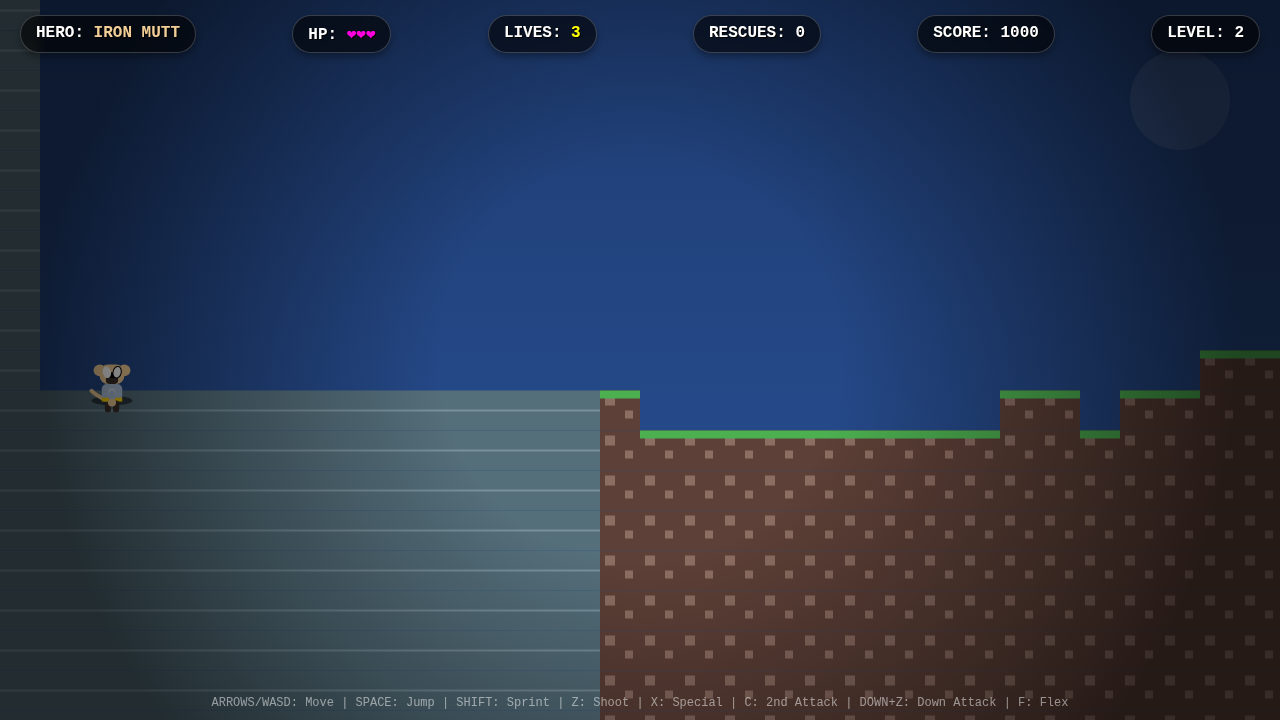
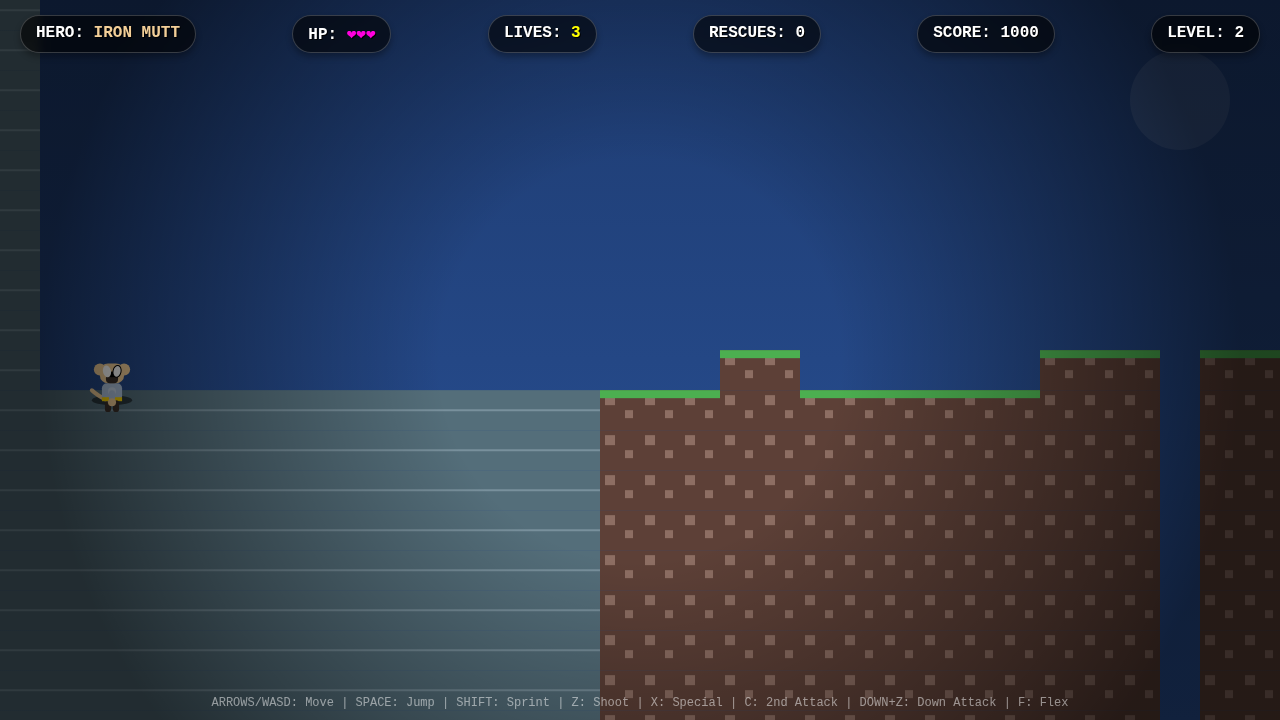
Implement Rescue Swap mechanics and Landmines.
- Update `Player.js` with `rescueSwap()`: Rescuing a hostage now grants a life, full health, and swaps the character to a random unlocked hero, mimicking Broforce.
- Update `TrappedBeast` in `items.js` to trigger `rescueSwap()`.
- Add `Landmine` class in `items.js`: A new hazard that explodes on contact.
- Update `level.js` to spawn Landmines on the surface and in tunnels.

Changed region(s): [[0.5, 0.4889, 0.7812, 0.6111], [0.8125, 0.4889, 0.9375, 1.0]]

diff --git a/loajf.html b/loajf.html
@@ -700,6 +700,71 @@ class PropaneTank {
     }
 }
 
+class Landmine {
+    constructor(x, y) {
+        this.x = x; this.y = y; this.w = 20; this.h = 5;
+        this.hp = 1;
+        this.active = true;
+        this.timer = 0;
+    }
+    update() {
+        if (!this.active) return;
+        this.timer++;
+
+        // Gravity
+        this.y += 5;
+        let r = Math.floor((this.y + this.h) / TILE_SIZE);
+        let c = Math.floor((this.x + this.w / 2) / TILE_SIZE);
+        if (r >= 0 && r < LEVEL_HEIGHT && c >= 0 && c < LEVEL_WIDTH && tiles[r] && tiles[r][c] && tiles[r][c].solid) {
+             this.y = r * TILE_SIZE - this.h;
+        }
+
+        // Player Collision
+        if (checkRectOverlap(this, player)) {
+            this.explode();
+        }
+
+        // Enemy Collision (Friendly Fire!)
+        // Optimization: Check rarely
+        if (this.timer % 10 === 0) {
+            for(let e of entities) {
+                if (e !== this && e.hp > 0 && (e instanceof Enemy || e instanceof ShieldBearer || e instanceof HeavyGunner)) {
+                    if (checkRectOverlap(this, e)) this.explode();
+                }
+            }
+        }
+    }
+    takeDamage(amt) {
+        this.explode();
+    }
+    explode() {
+        if (!this.active) return;
+        this.active = false;
+        spawnExplosion(this.x + 10, this.y, "orange", 3);
+        // Damage handled by explosion radius usually, but let's ensure player takes hit
+        if (Math.abs(player.x - this.x) < 60 && Math.abs(player.y - this.y) < 60) {
+            player.takeDamage(1);
+        }
+        // Destroy terrain
+        let c = Math.floor(this.x / TILE_SIZE);
+        let r = Math.floor(this.y / TILE_SIZE);
+        destroyRadius(c, r, 1);
+
+        this.x = -9999;
+    }
+    draw(ctx, camX, camY) {
+        let cx = this.x - camX;
+        let cy = this.y - camY;
+        ctx.fillStyle = "#333";
+        ctx.beginPath(); ctx.arc(cx+10, cy+5, 8, 0, Math.PI, true); ctx.fill();
+        // Blinking light
+        if (Math.floor(Date.now() / 200) % 2 === 0) {
+            ctx.fillStyle = "red";
+            ctx.beginPath(); ctx.arc(cx+10, cy, 2, 0, Math.PI*2); ctx.fill();
+        }
+    }
+}
+
 class FallingBlock {
     constructor(x, y) {
         this.x = x; this.y = y; this.w = TILE_SIZE; this.h = TILE_SIZE;
@@ -890,8 +955,8 @@ class TrappedBeast {
     update() {
         if (!this.freed && checkRectOverlap(this, player)) {
             this.freed = true;
-            spawnExplosion(this.x, this.y, "green", 2);
-            // Give powerup?
+            // spawnExplosion(this.x, this.y, "green", 2); // Handled by player.rescueSwap
+            player.rescueSwap();
         }
     }
     draw(ctx, camX, camY) {
@@ -1621,6 +1686,31 @@ class Player {
         spawnExplosion(this.x, this.y, "#00ff41", 2);
     }
     
+    // --- RESCUE SWAP MECHANIC ---
+    rescueSwap() {
+        // Gain a life
+        gameState.lives++;
+        // Increment Score
+        gameState.score += 500;
+
+        // Swap to random hero (Simulating unlocking/tagging in)
+        let unlockedChars = CHARACTERS.slice(0, gameState.globalUnlocked);
+        let newCharIndex = Math.floor(secureRandom() * unlockedChars.length);
+
+        // Force swap even if same char? Yes, for full health + effect.
+        this.setCharacter(unlockedChars[newCharIndex].id);
+
+        // Full Health
+        this.health = 3;
+
+        // Visuals
+        spawnExplosion(this.x, this.y, "gold", 2);
+        spawnDamageNumber(this.x, this.y - 40, "RESCUE!", "#00ff41");
+        spawnDamageNumber(this.x, this.y - 60, "1 UP", "yellow");
+
+        updateUI();
+    }
+
     // --- WALL DETECTION ---
     checkWall(dir) {
         if (!tiles) return false;
@@ -2136,6 +2226,11 @@ function generateLevel() {
                             newEntities.push(new HeavyGunner((tx+2) * TILE_SIZE, (beastY + 1) * TILE_SIZE));
                         }
                     }
+
+                    // Underground Landmines
+                    if (secureRandom() < 0.02) {
+                        newEntities.push(new Landmine(tx * TILE_SIZE, (tunnelY+2) * TILE_SIZE + 20));
+                    }
                 }
             }
         }
@@ -2184,6 +2279,11 @@ function generateLevel() {
              if (difficulty >= 2) newEntities.push(new SniperEnemy(x * TILE_SIZE, (y-1) * TILE_SIZE));
         }
         if (secureRandom() < 0.02) newEntities.push(new FlyingEnemy(x * TILE_SIZE, (y-5) * TILE_SIZE));
+
+        // Surface Landmines (Harder difficulties or random hazard)
+        if (secureRandom() < 0.02 + (difficulty * 0.005)) {
+             newEntities.push(new Landmine(x * TILE_SIZE, (y-1) * TILE_SIZE + 35)); // +35 to put it on the floor
+        }
     }
 
     // 5. FINISH
@@ -2216,6 +2316,15 @@ function generateLevel() {
          // Boss Entourage
          spawnSquad(bossX - 5, bossY);
          spawnSquad(bossX + 5, bossY);
+
+         // Minefield around boss?
+         if (difficulty >= 10) {
+             for(let i=0; i<5; i++) {
+                 let mx = bossX + (secureRandom()-0.5)*20;
+                 let my = surfaceMap[Math.floor(mx)] || 10;
+                 newEntities.push(new Landmine(mx*TILE_SIZE, (my-1)*TILE_SIZE + 35));
+             }
+         }
 
     } else {
          // Level 20+: Special Room

diff --git a/src/js/classes/items.js b/src/js/classes/items.js
@@ -43,6 +43,71 @@ class PropaneTank {
     }
 }
 
+class Landmine {
+    constructor(x, y) {
+        this.x = x; this.y = y; this.w = 20; this.h = 5;
+        this.hp = 1;
+        this.active = true;
+        this.timer = 0;
+    }
+    update() {
+        if (!this.active) return;
+        this.timer++;
+
+        // Gravity
+        this.y += 5;
+        let r = Math.floor((this.y + this.h) / TILE_SIZE);
+        let c = Math.floor((this.x + this.w / 2) / TILE_SIZE);
+        if (r >= 0 && r < LEVEL_HEIGHT && c >= 0 && c < LEVEL_WIDTH && tiles[r] && tiles[r][c] && tiles[r][c].solid) {
+             this.y = r * TILE_SIZE - this.h;
+        }
+
+        // Player Collision
+        if (checkRectOverlap(this, player)) {
+            this.explode();
+        }
+
+        // Enemy Collision (Friendly Fire!)
+        // Optimization: Check rarely
+        if (this.timer % 10 === 0) {
+            for(let e of entities) {
+                if (e !== this && e.hp > 0 && (e instanceof Enemy || e instanceof ShieldBearer || e instanceof HeavyGunner)) {
+                    if (checkRectOverlap(this, e)) this.explode();
+                }
+            }
+        }
+    }
+    takeDamage(amt) {
+        this.explode();
+    }
+    explode() {
+        if (!this.active) return;
+        this.active = false;
+        spawnExplosion(this.x + 10, this.y, "orange", 3);
+        // Damage handled by explosion radius usually, but let's ensure player takes hit
+        if (Math.abs(player.x - this.x) < 60 && Math.abs(player.y - this.y) < 60) {
+            player.takeDamage(1);
+        }
+        // Destroy terrain
+        let c = Math.floor(this.x / TILE_SIZE);
+        let r = Math.floor(this.y / TILE_SIZE);
+        destroyRadius(c, r, 1);
+
+        this.x = -9999;
+    }
+    draw(ctx, camX, camY) {
+        let cx = this.x - camX;
+        let cy = this.y - camY;
+        ctx.fillStyle = "#333";
+        ctx.beginPath(); ctx.arc(cx+10, cy+5, 8, 0, Math.PI, true); ctx.fill();
+        // Blinking light
+        if (Math.floor(Date.now() / 200) % 2 === 0) {
+            ctx.fillStyle = "red";
+            ctx.beginPath(); ctx.arc(cx+10, cy, 2, 0, Math.PI*2); ctx.fill();
+        }
+    }
+}
+
 class FallingBlock {
     constructor(x, y) {
         this.x = x; this.y = y; this.w = TILE_SIZE; this.h = TILE_SIZE;
@@ -233,8 +298,8 @@ class TrappedBeast {
     update() {
         if (!this.freed && checkRectOverlap(this, player)) {
             this.freed = true;
-            spawnExplosion(this.x, this.y, "green", 2);
-            // Give powerup?
+            // spawnExplosion(this.x, this.y, "green", 2); // Handled by player.rescueSwap
+            player.rescueSwap();
         }
     }
     draw(ctx, camX, camY) {

diff --git a/src/js/level.js b/src/js/level.js
@@ -183,6 +183,11 @@ function generateLevel() {
                             newEntities.push(new HeavyGunner((tx+2) * TILE_SIZE, (beastY + 1) * TILE_SIZE));
                         }
                     }
+
+                    // Underground Landmines
+                    if (secureRandom() < 0.02) {
+                        newEntities.push(new Landmine(tx * TILE_SIZE, (tunnelY+2) * TILE_SIZE + 20));
+                    }
                 }
             }
         }
@@ -231,6 +236,11 @@ function generateLevel() {
              if (difficulty >= 2) newEntities.push(new SniperEnemy(x * TILE_SIZE, (y-1) * TILE_SIZE));
         }
         if (secureRandom() < 0.02) newEntities.push(new FlyingEnemy(x * TILE_SIZE, (y-5) * TILE_SIZE));
+
+        // Surface Landmines (Harder difficulties or random hazard)
+        if (secureRandom() < 0.02 + (difficulty * 0.005)) {
+             newEntities.push(new Landmine(x * TILE_SIZE, (y-1) * TILE_SIZE + 35)); // +35 to put it on the floor
+        }
     }
 
     // 5. FINISH
@@ -263,6 +273,15 @@ function generateLevel() {
          // Boss Entourage
          spawnSquad(bossX - 5, bossY);
          spawnSquad(bossX + 5, bossY);
+
+         // Minefield around boss?
+         if (difficulty >= 10) {
+             for(let i=0; i<5; i++) {
+                 let mx = bossX + (secureRandom()-0.5)*20;
+                 let my = surfaceMap[Math.floor(mx)] || 10;
+                 newEntities.push(new Landmine(mx*TILE_SIZE, (my-1)*TILE_SIZE + 35));
+             }
+         }
 
     } else {
          // Level 20+: Special Room

diff --git a/src/js/classes/player.js b/src/js/classes/player.js
@@ -28,6 +28,31 @@ class Player {
         spawnExplosion(this.x, this.y, "#00ff41", 2);
     }
 
+    // --- RESCUE SWAP MECHANIC ---
+    rescueSwap() {
+        // Gain a life
+        gameState.lives++;
+        // Increment Score
+        gameState.score += 500;
+
+        // Swap to random hero (Simulating unlocking/tagging in)
+        let unlockedChars = CHARACTERS.slice(0, gameState.globalUnlocked);
+        let newCharIndex = Math.floor(secureRandom() * unlockedChars.length);
+
+        // Force swap even if same char? Yes, for full health + effect.
+        this.setCharacter(unlockedChars[newCharIndex].id);
+
+        // Full Health
+        this.health = 3;
+
+        // Visuals
+        spawnExplosion(this.x, this.y, "gold", 2);
+        spawnDamageNumber(this.x, this.y - 40, "RESCUE!", "#00ff41");
+        spawnDamageNumber(this.x, this.y - 60, "1 UP", "yellow");
+
+        updateUI();
+    }
+
     // --- WALL DETECTION ---
     checkWall(dir) {
         if (!tiles) return false;
